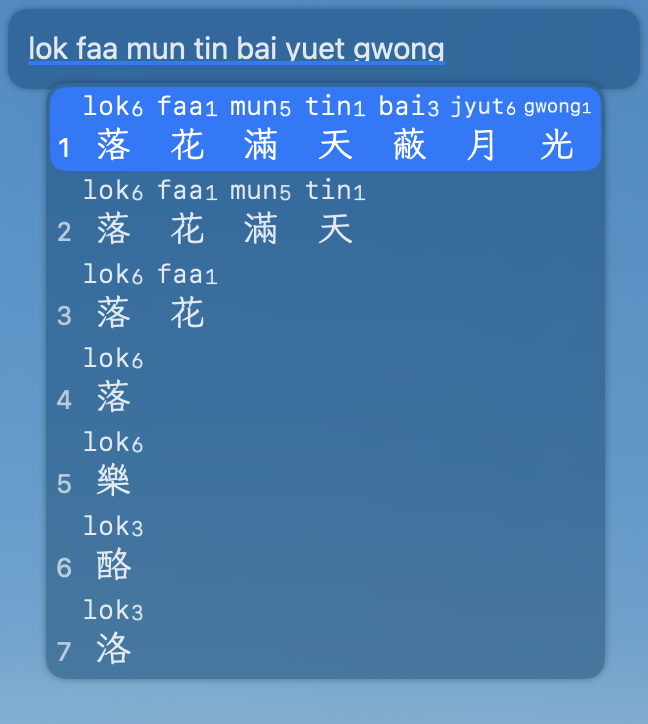
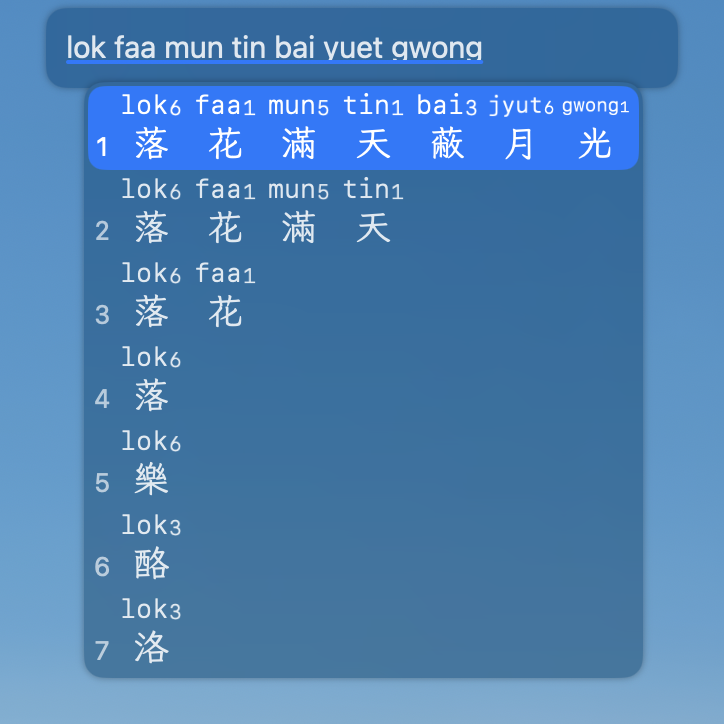
Update macOS screenshot images

Changed region(s): [[0.0, 0.0, 1.0, 0.942]]

diff --git a/mac/index.html b/mac/index.html
@@ -51,13 +51,11 @@
                                 <img class="screenshot" src="../images/screenshot-mac.png" alt="macOS Screenshot">
                         </picture>
                 </p>
-                <div class="left-align">
-                        <br>
+                <div class="left-align gap4em">
                         <p>
                                 用緊 Homebrew？可以<a href="homebrew">用 Homebrew 安裝 macOS 粵拼輸入法</a>
                         </p>
-                        <br>
-                        <h2>
+                        <h2 class="gap2em">
                                 下載 • Download
                         </h2>
                         <p class="double-line-height">

diff --git a/css/style.css b/css/style.css
@@ -47,7 +47,7 @@ img.sponsor-alipay {
         margin-bottom: 8px;
 }
 img.screenshot {
-        width: min(340px, max(320px, 36%));
+        width: min(350px, max(330px, 36%));
         border-radius: 8px;
 }
 
@@ -60,7 +60,7 @@ img.screenshot {
 }
 .screenshot-row picture {
         display: block;
-        width: min(340px, max(320px, 36%));
+        width: min(350px, max(330px, 36%));
 }
 .screenshot-row img {
         width: 100%;
